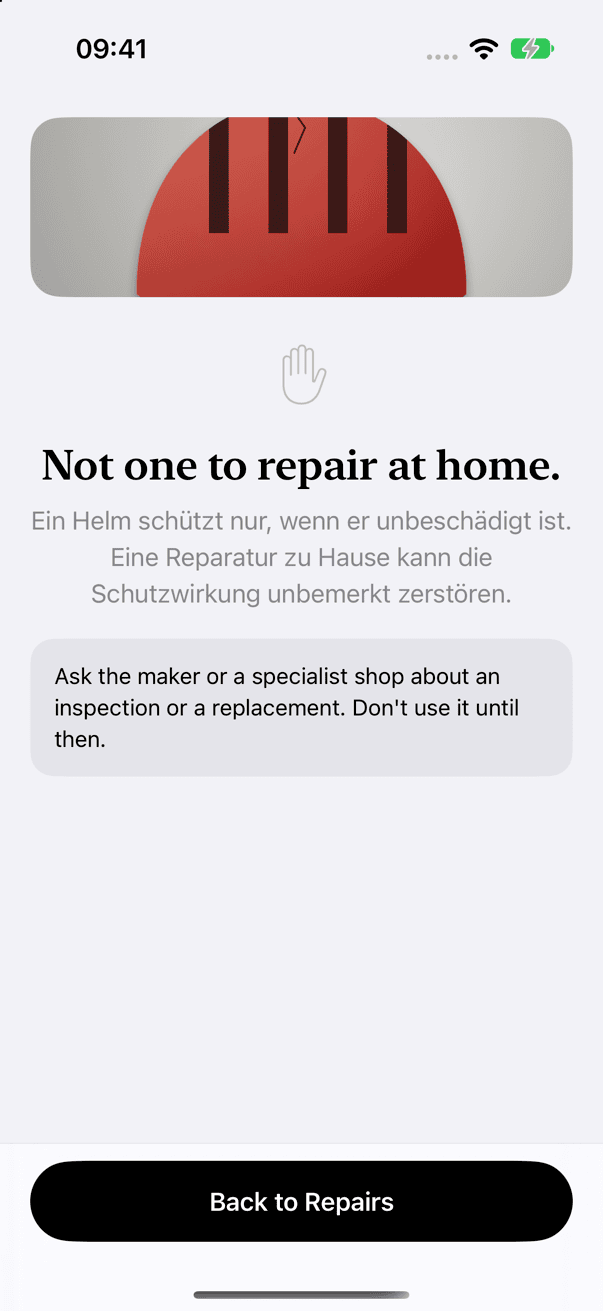
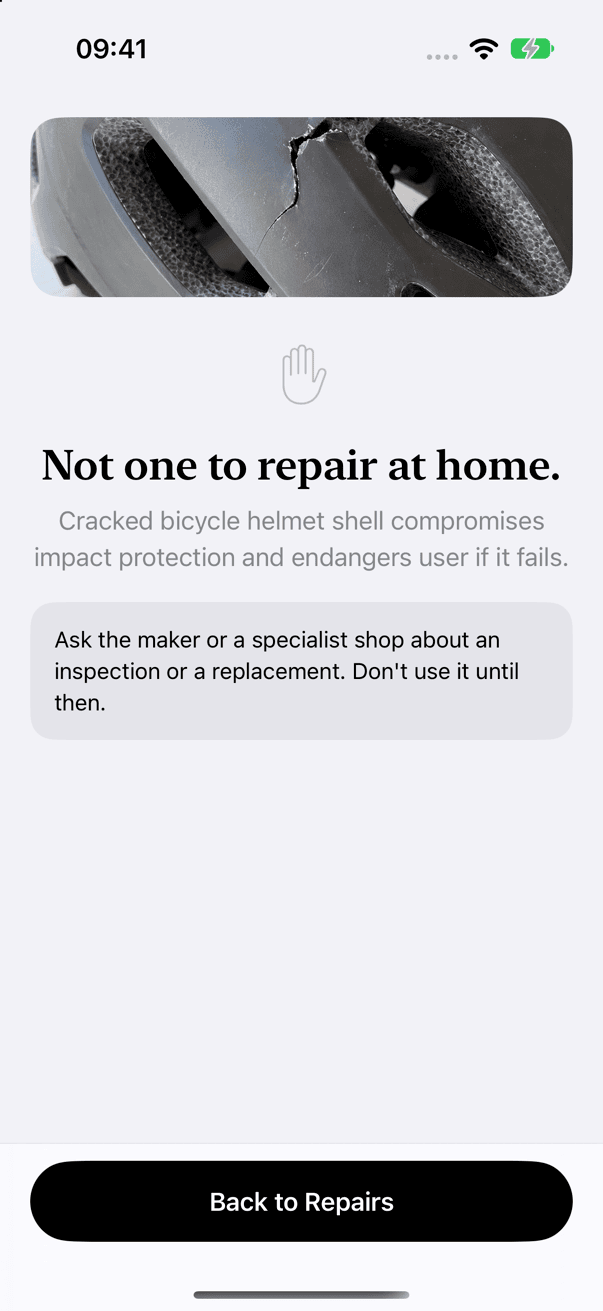
ios: erledigtes Projekt zeigt sein eigenes Nachher-Bild (Szenario pro Projekt gespeichert)

Changed region(s): [[0.0299, 0.0915, 0.9552, 0.2441], [0.0597, 0.3661, 0.9254, 0.5797]]

diff --git a/ios/RepairAssistant/Flow/FlowModel.swift b/ios/RepairAssistant/Flow/FlowModel.swift
@@ -410,7 +410,8 @@ final class FlowModel {
         let c = SavedCase(id: r.caseId, createdAt: old?.createdAt ?? Date(), userNote: note, response: r,
                           shoppingStatus: statuses, currentStep: currentStep, completedSteps: completedSteps.sorted(),
                           finished: nowFinished, started: projectStarted || (old?.started ?? false), parked: projectParked || (old?.parked ?? false),
-                          finishedAt: nowFinished ? (old?.finishedAt ?? Date()) : nil)
+                          finishedAt: nowFinished ? (old?.finishedAt ?? Date()) : nil,
+                          scenario: old?.scenario ?? (settings.demoMode ? settings.scenario.rawValue : nil))
         store.upsert(c, image: photo)
     }
 
@@ -454,6 +455,7 @@ final class FlowModel {
         statuses = c.shoppingStatus; currentStep = c.currentStep; completedSteps = Set(c.completedSteps)
         projectStarted = c.started == true; projectParked = c.parked == true
         followUpUsed = true
+        if settings.demoMode, let raw = c.scenario, let s = DemoScenario(rawValue: raw) { settings.scenario = s }
     }
 
     func open(_ c: SavedCase) {

diff --git a/ios/RepairAssistant/Views/HomeView.swift b/ios/RepairAssistant/Views/HomeView.swift
@@ -339,7 +339,7 @@ extension HomeView {
             r.caseId = id
             let r2 = FlowGate.sanitized(r)
             let img = ImageResizer.resized(await DemoPhotos.imageAsync(for: s))
-            return SavedCase(id: id, createdAt: Date(), userNote: s.userNote, response: r2, shoppingStatus: [:], currentStep: 0, completedSteps: [], finished: false, started: true, parked: nil, finishedAt: nil).withImage(img, store: flow.store)
+            return SavedCase(id: id, createdAt: Date(), userNote: s.userNote, response: r2, shoppingStatus: [:], currentStep: 0, completedSteps: [], finished: false, started: true, parked: nil, finishedAt: nil, scenario: s.rawValue).withImage(img, store: flow.store)
         }
         var a = await make(.realSweater, id: "seed-sweater")!
         let required = a.response.shoppingList.filter(\.required)

diff --git a/ios/RepairAssistant/Services/CaseStore.swift b/ios/RepairAssistant/Services/CaseStore.swift
@@ -15,6 +15,8 @@ struct SavedCase: Codable, Sendable, Identifiable, Hashable {
     /// "Save for later" on a pro verdict: the project waits for a professional.
     var parked: Bool? = nil
     var finishedAt: Date? = nil
+    /// Demo mode only: which recorded scenario this project replays (its after-preview, recordings).
+    var scenario: String? = nil
 }
 
 struct RescueEntry: Codable, Sendable, Hashable {
